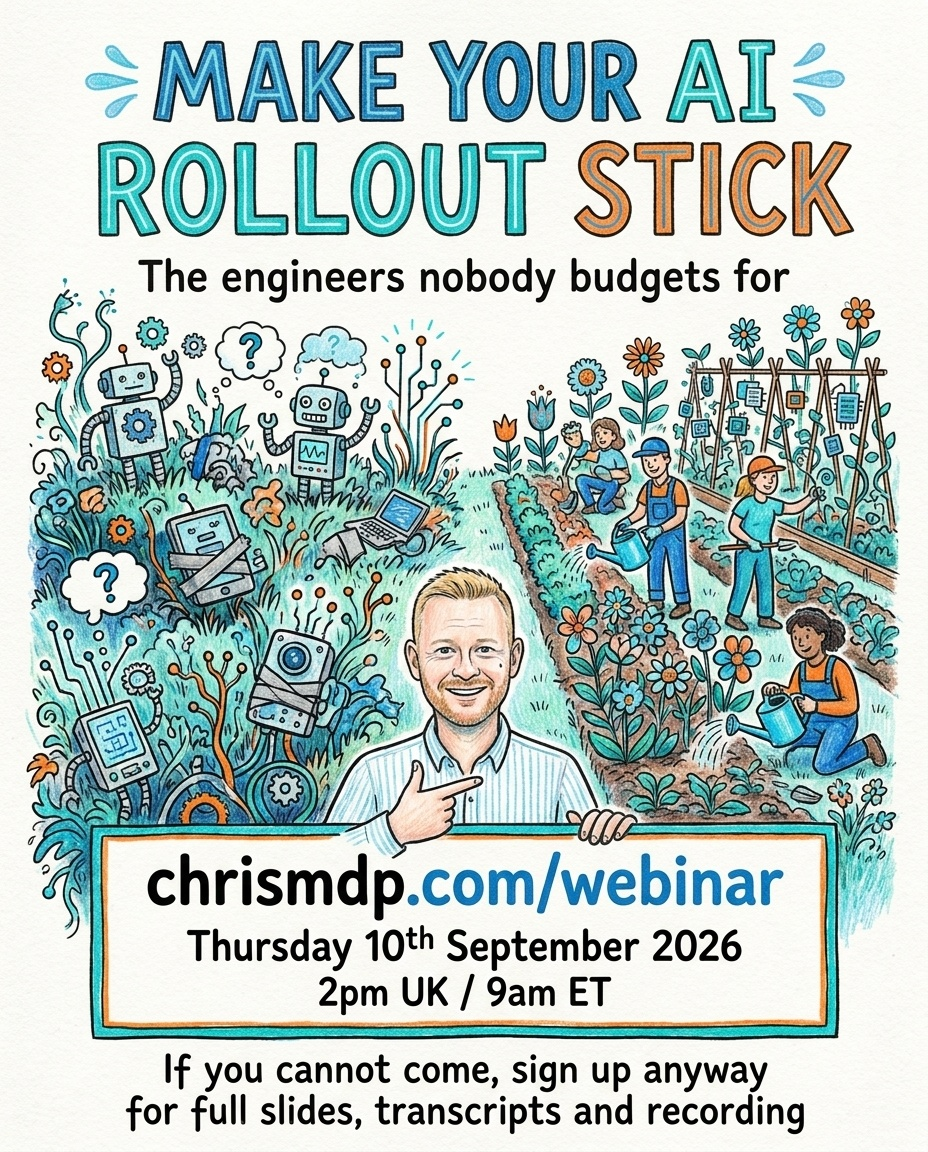
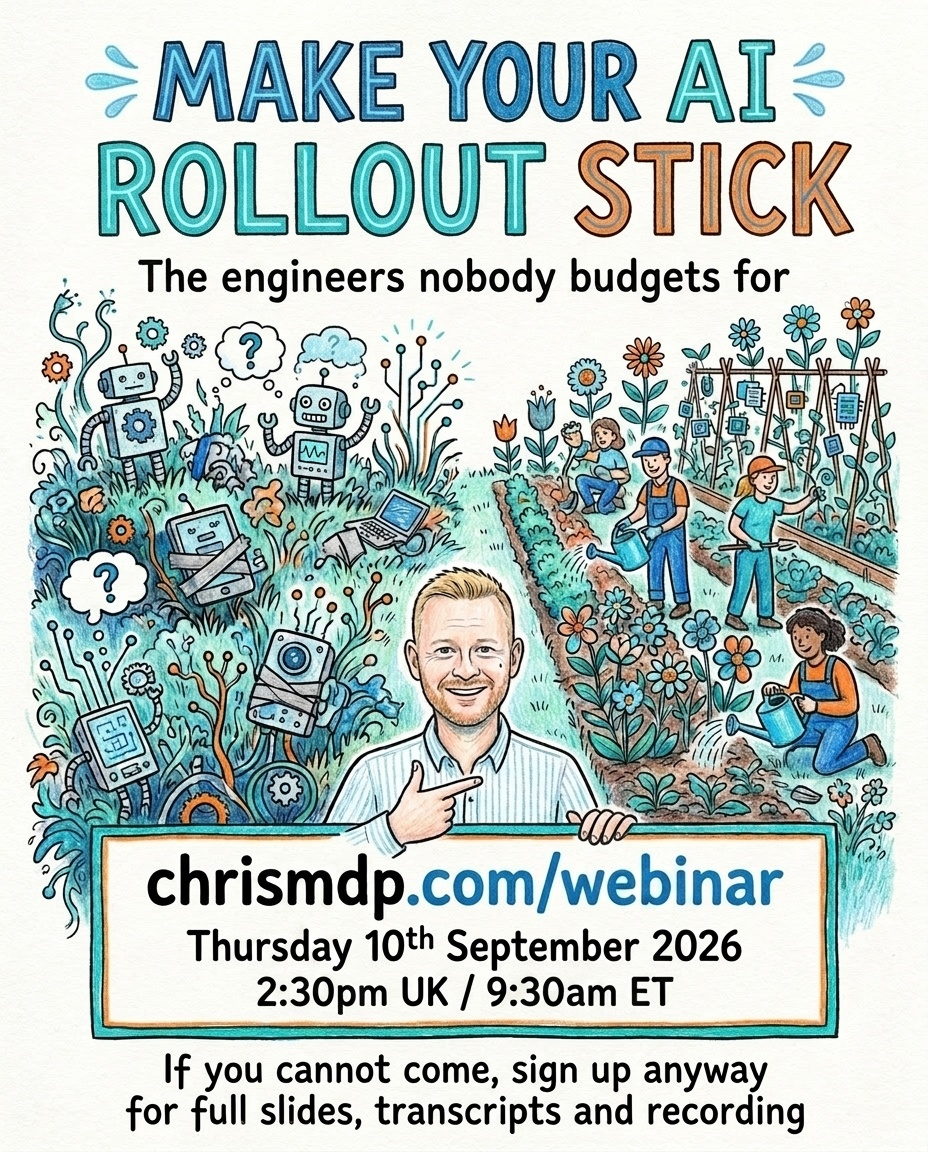
Move Make Your AI Rollout Stick webinar to 14:30
Claude-Session: https://claude.ai/code/session_01R9i88MHhk1N7GAsVnkoYUi

diff --git a/_posts/2026-09-07-webinar-make-your-ai-rollout-stick.md b/_posts/2026-09-07-webinar-make-your-ai-rollout-stick.md
@@ -13,7 +13,7 @@ redirect_from:
 image: /assets/img/make-your-ai-rollout-stick-webinar.jpg
 image_portrait: true
 kit_tag: webinar18
-webinar_date: "2026-09-10T14:00:00+01:00"
+webinar_date: "2026-09-10T14:30:00+01:00"
 series: "AI In Action Webinars"
 description: "Who owns the AI workflows your people have already built? Why rollouts built on Cowork, Copilot and Claude Code stall after the demos, the engineers nobody budgets for, and what a rollout looks like when it sticks."
 ---

diff --git a/pages/webinar.md b/pages/webinar.md
@@ -7,7 +7,7 @@ image_portrait: false
 permalink: /webinar/
 redirect_from: [/webinar]
 kit_tag: webinar18
-webinar_date: "2026-09-10T14:00:00+01:00"
+webinar_date: "2026-09-10T14:30:00+01:00"
 ---
 
 <div class="mb-12">
